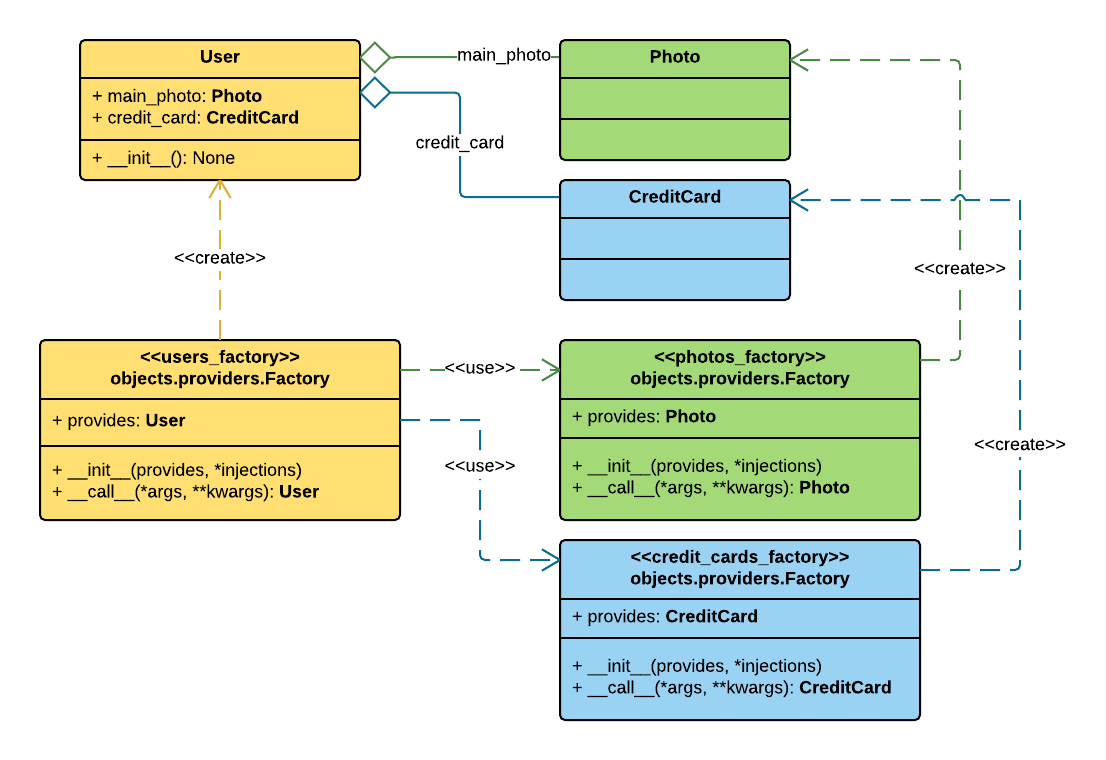
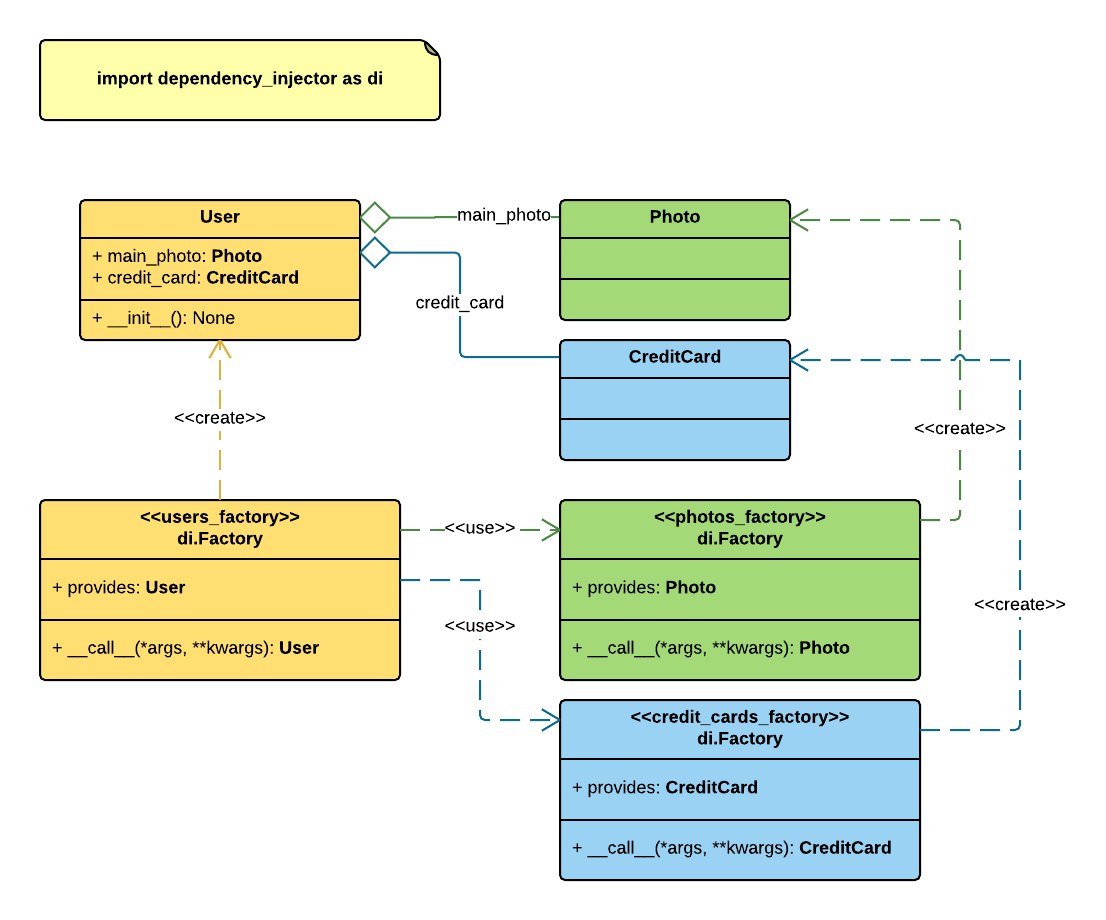
Update factory attribute injections docs

diff --git a/examples/providers/factory_attribute_injections.py b/examples/providers/factory_attribute_injections.py
@@ -1,7 +1,6 @@
-"""`Factory` providers with attribute injections example."""
+"""`di.Factory` providers with attribute injections example."""
 
-from dependency_injector.providers import Factory
-from dependency_injector.injections import Attribute
+import dependency_injector as di
 
 
 class User(object):
@@ -24,11 +23,11 @@ class CreditCard(object):
     """Example class CreditCard."""
 
 # User, Photo and CreditCard factories:
-credit_cards_factory = Factory(CreditCard)
-photos_factory = Factory(Photo)
-users_factory = Factory(User,
-                        Attribute('main_photo', photos_factory),
-                        Attribute('credit_card', credit_cards_factory))
+credit_cards_factory = di.Factory(CreditCard)
+photos_factory = di.Factory(Photo)
+users_factory = di.Factory(User,
+                           di.Attribute('main_photo', photos_factory),
+                           di.Attribute('credit_card', credit_cards_factory))
 
 # Creating several User objects:
 user1 = users_factory()

diff --git a/docs/providers/factory.rst b/docs/providers/factory.rst
@@ -72,7 +72,7 @@ So, please, follow the example below:
 Factory providers and attribute injections
 ~~~~~~~~~~~~~~~~~~~~~~~~~~~~~~~~~~~~~~~~~~
 
-Example below shows how to create ``Factory`` of particular class with
+Example below shows how to create ``di.Factory`` of particular class with
 attribute injections. Those injections are done by setting specified attributes
 with injectable values right after object's creation.
 
